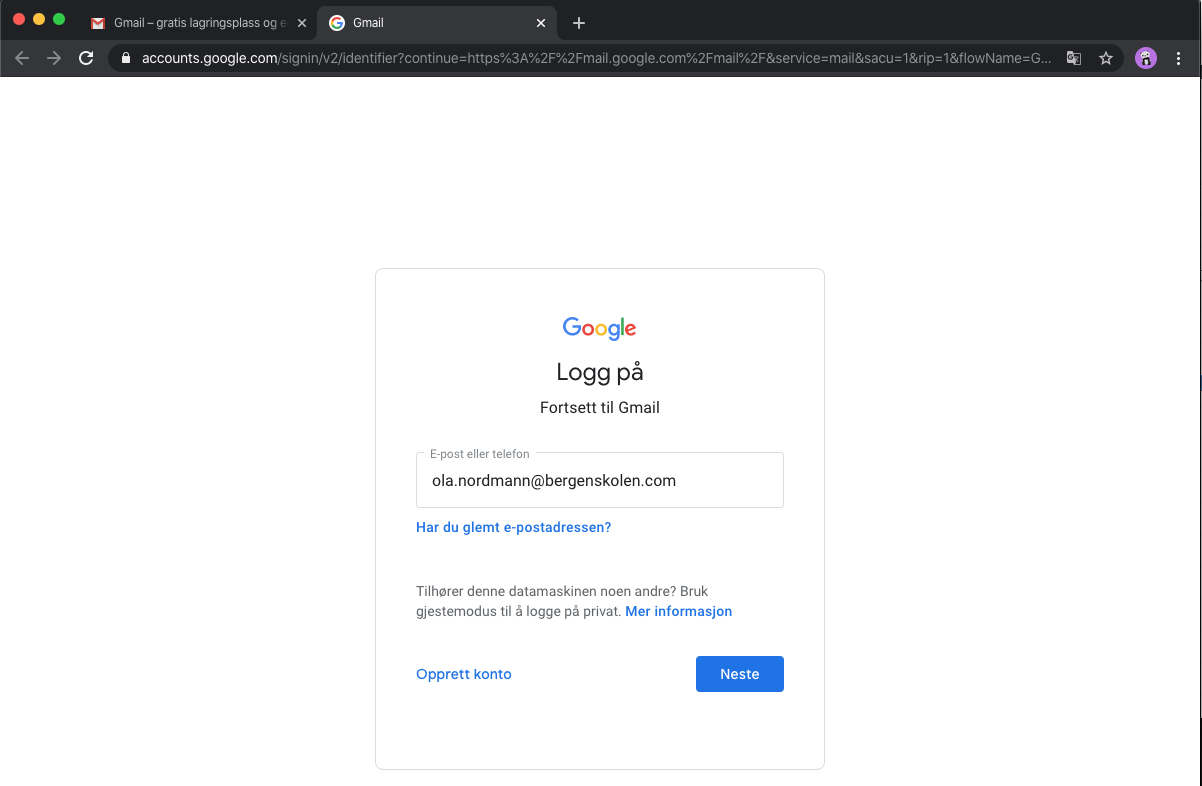
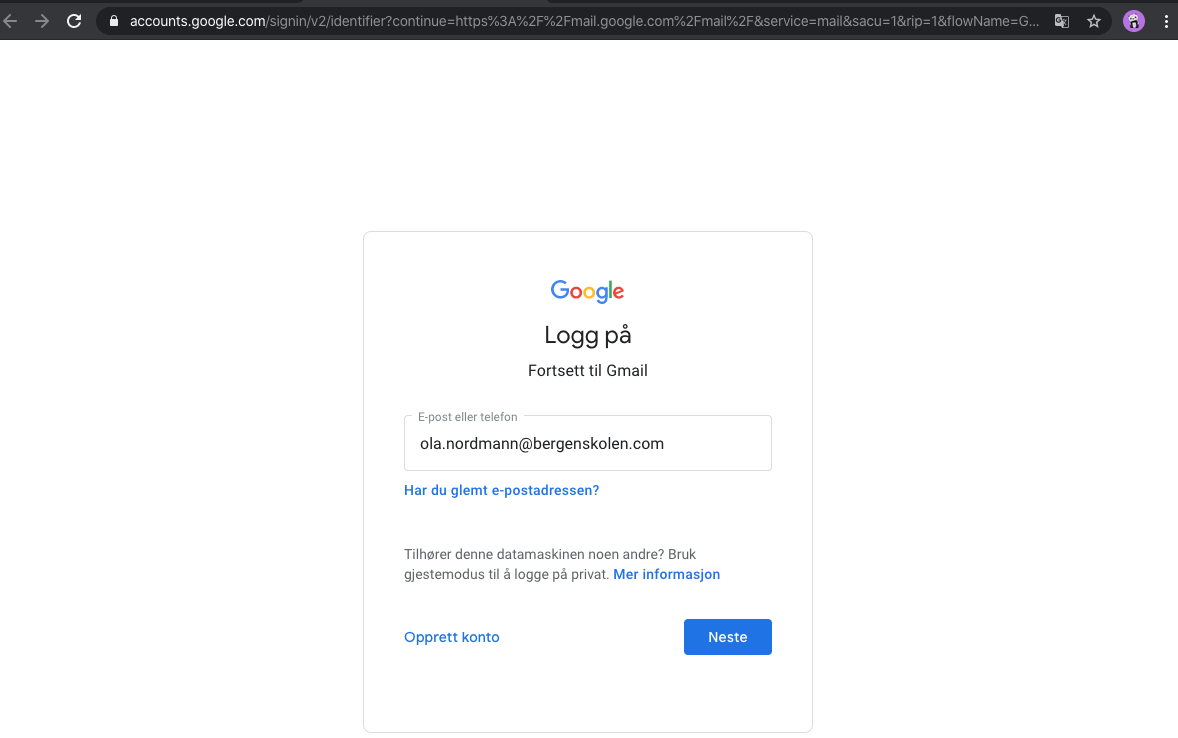
Crop image - update text

diff --git a/_posts/2020-03-22-paalogging-google.md b/_posts/2020-03-22-paalogging-google.md
@@ -11,13 +11,11 @@ tags:
 # Google skytjenester
 
 ## Pålogging
-Alle elever har fått et brukernavn på skolen. Dette brukes til f.eks. multi-smart pålogging. Normalt er dette første bokstav i `fornavn` og de to første bokkstavene i `etternavn`. Etterfult av et tall med tre siffer. 
-
-`Ola Nordmann` vil da f.eks. kunne ha `ono123` som brukernavn. Ved pålogging til Google classrom må man derfor skrive inn  `brukernavn`(at)bergensskolen.com
+Alle elever har fått et brukernavn på skolen.
 
 For å logge seg på må man åpnet opp nettleser og skrive inn
 
-http://classroom.google.com/
+https://classroom.google.com/
 
 Du skal da få opp bildet under:
 
